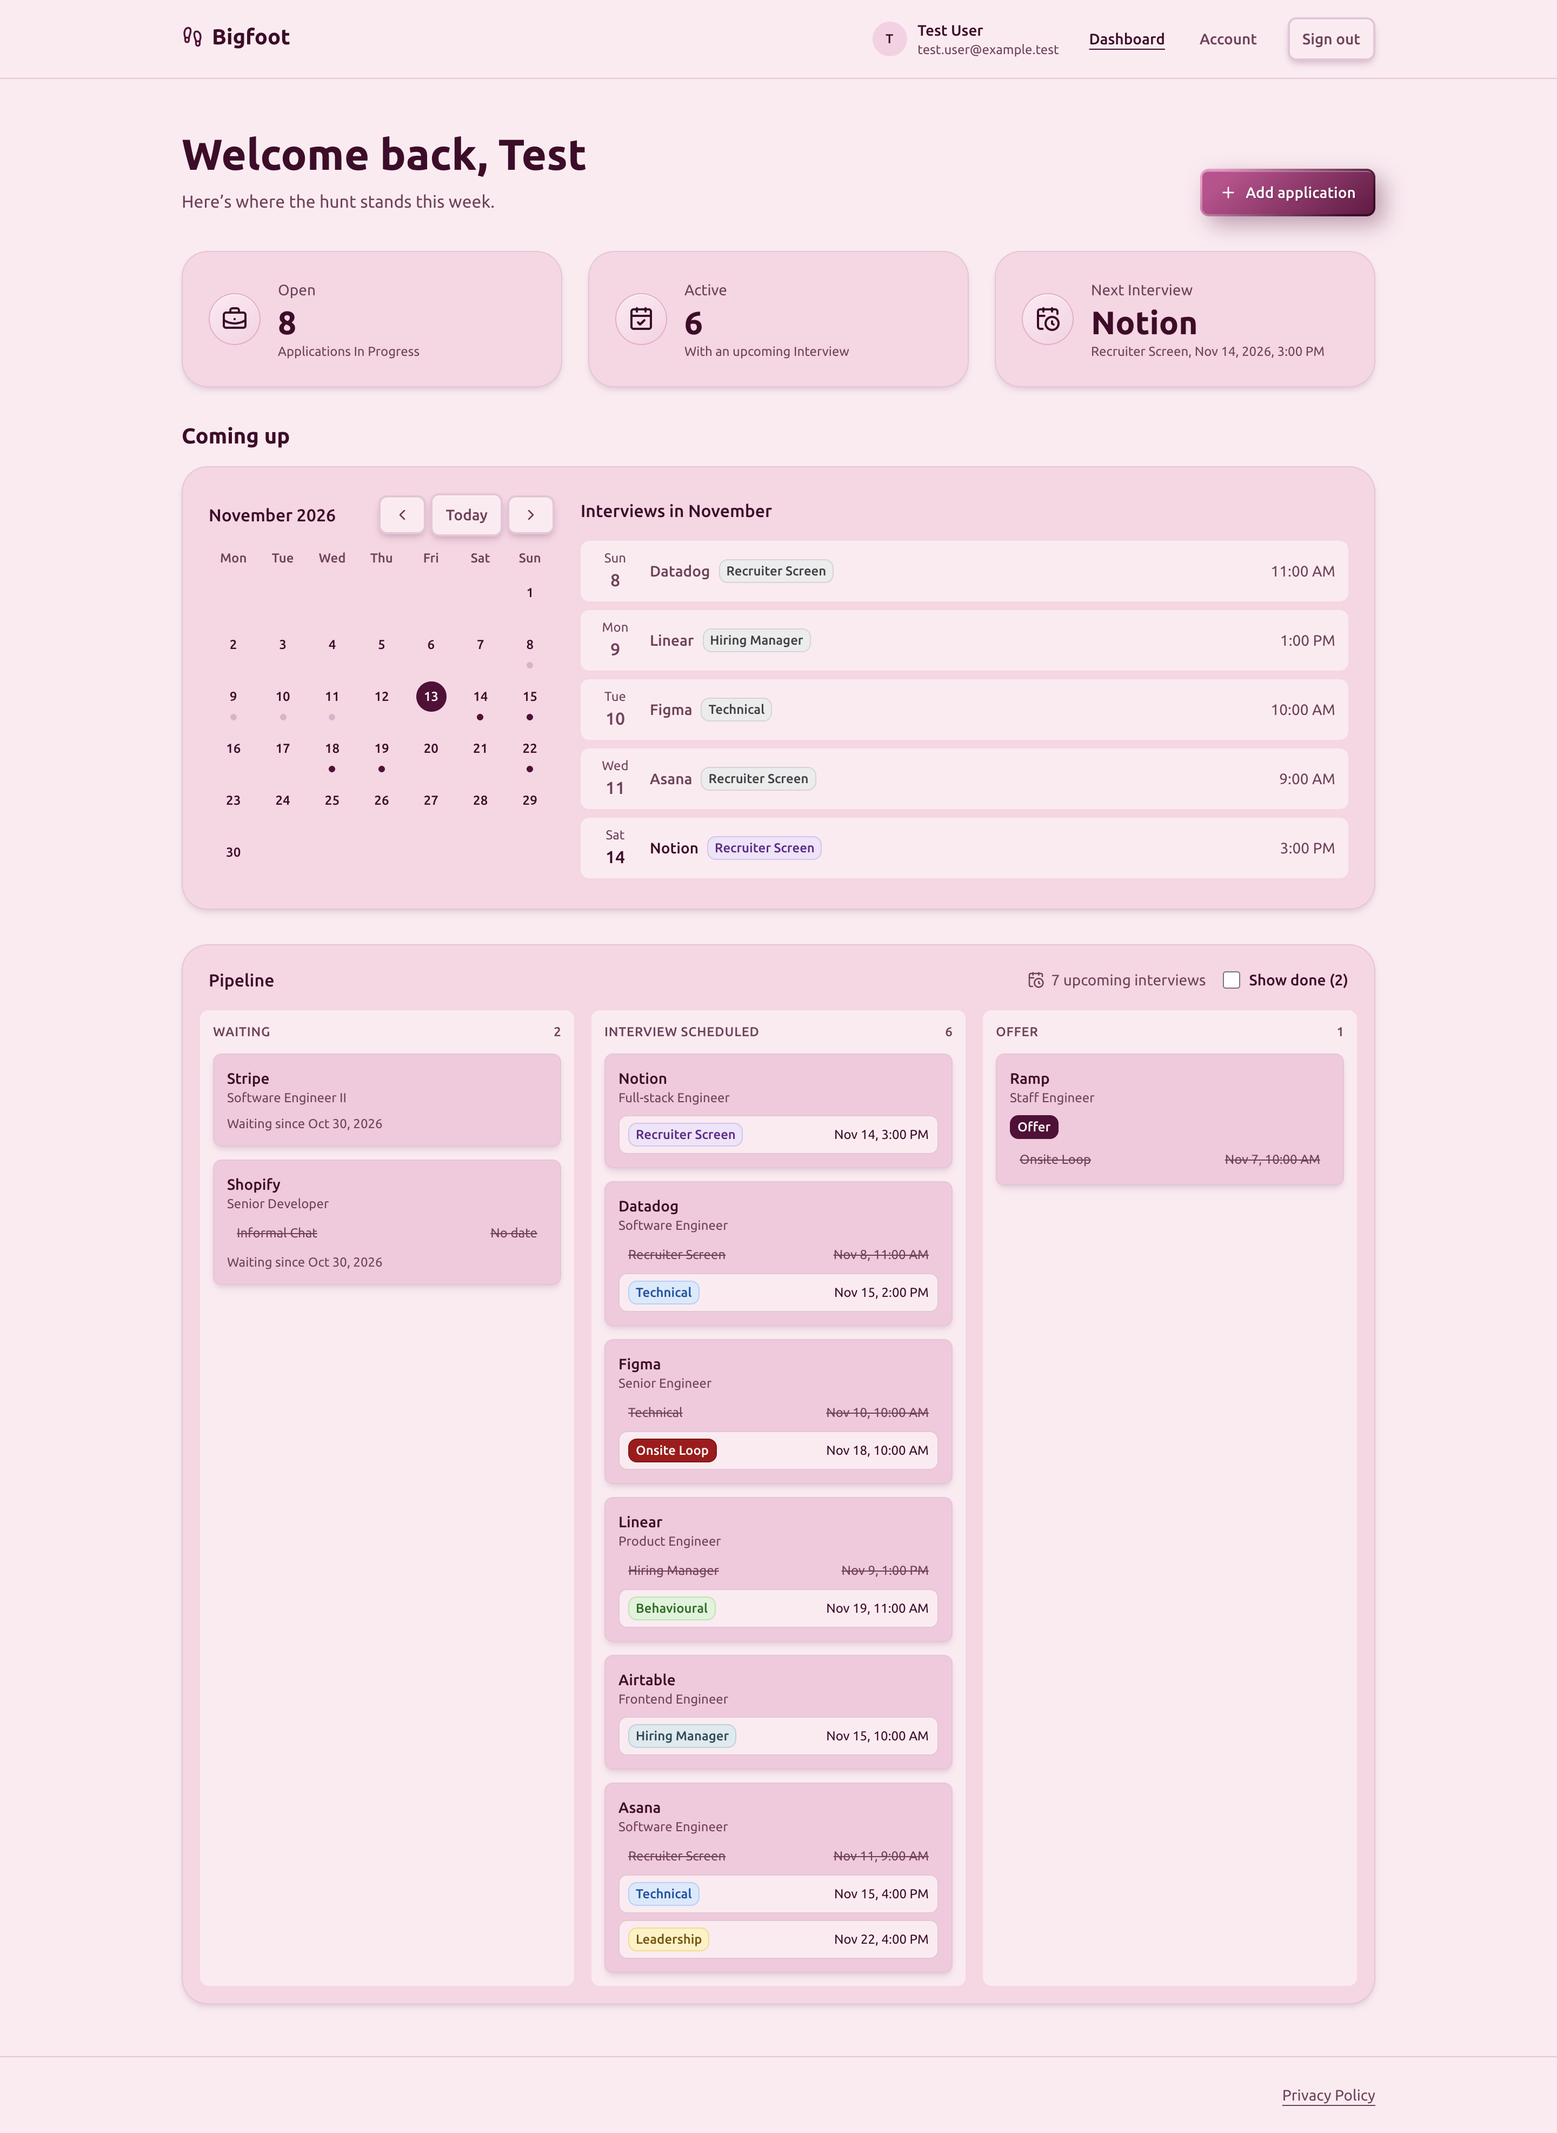
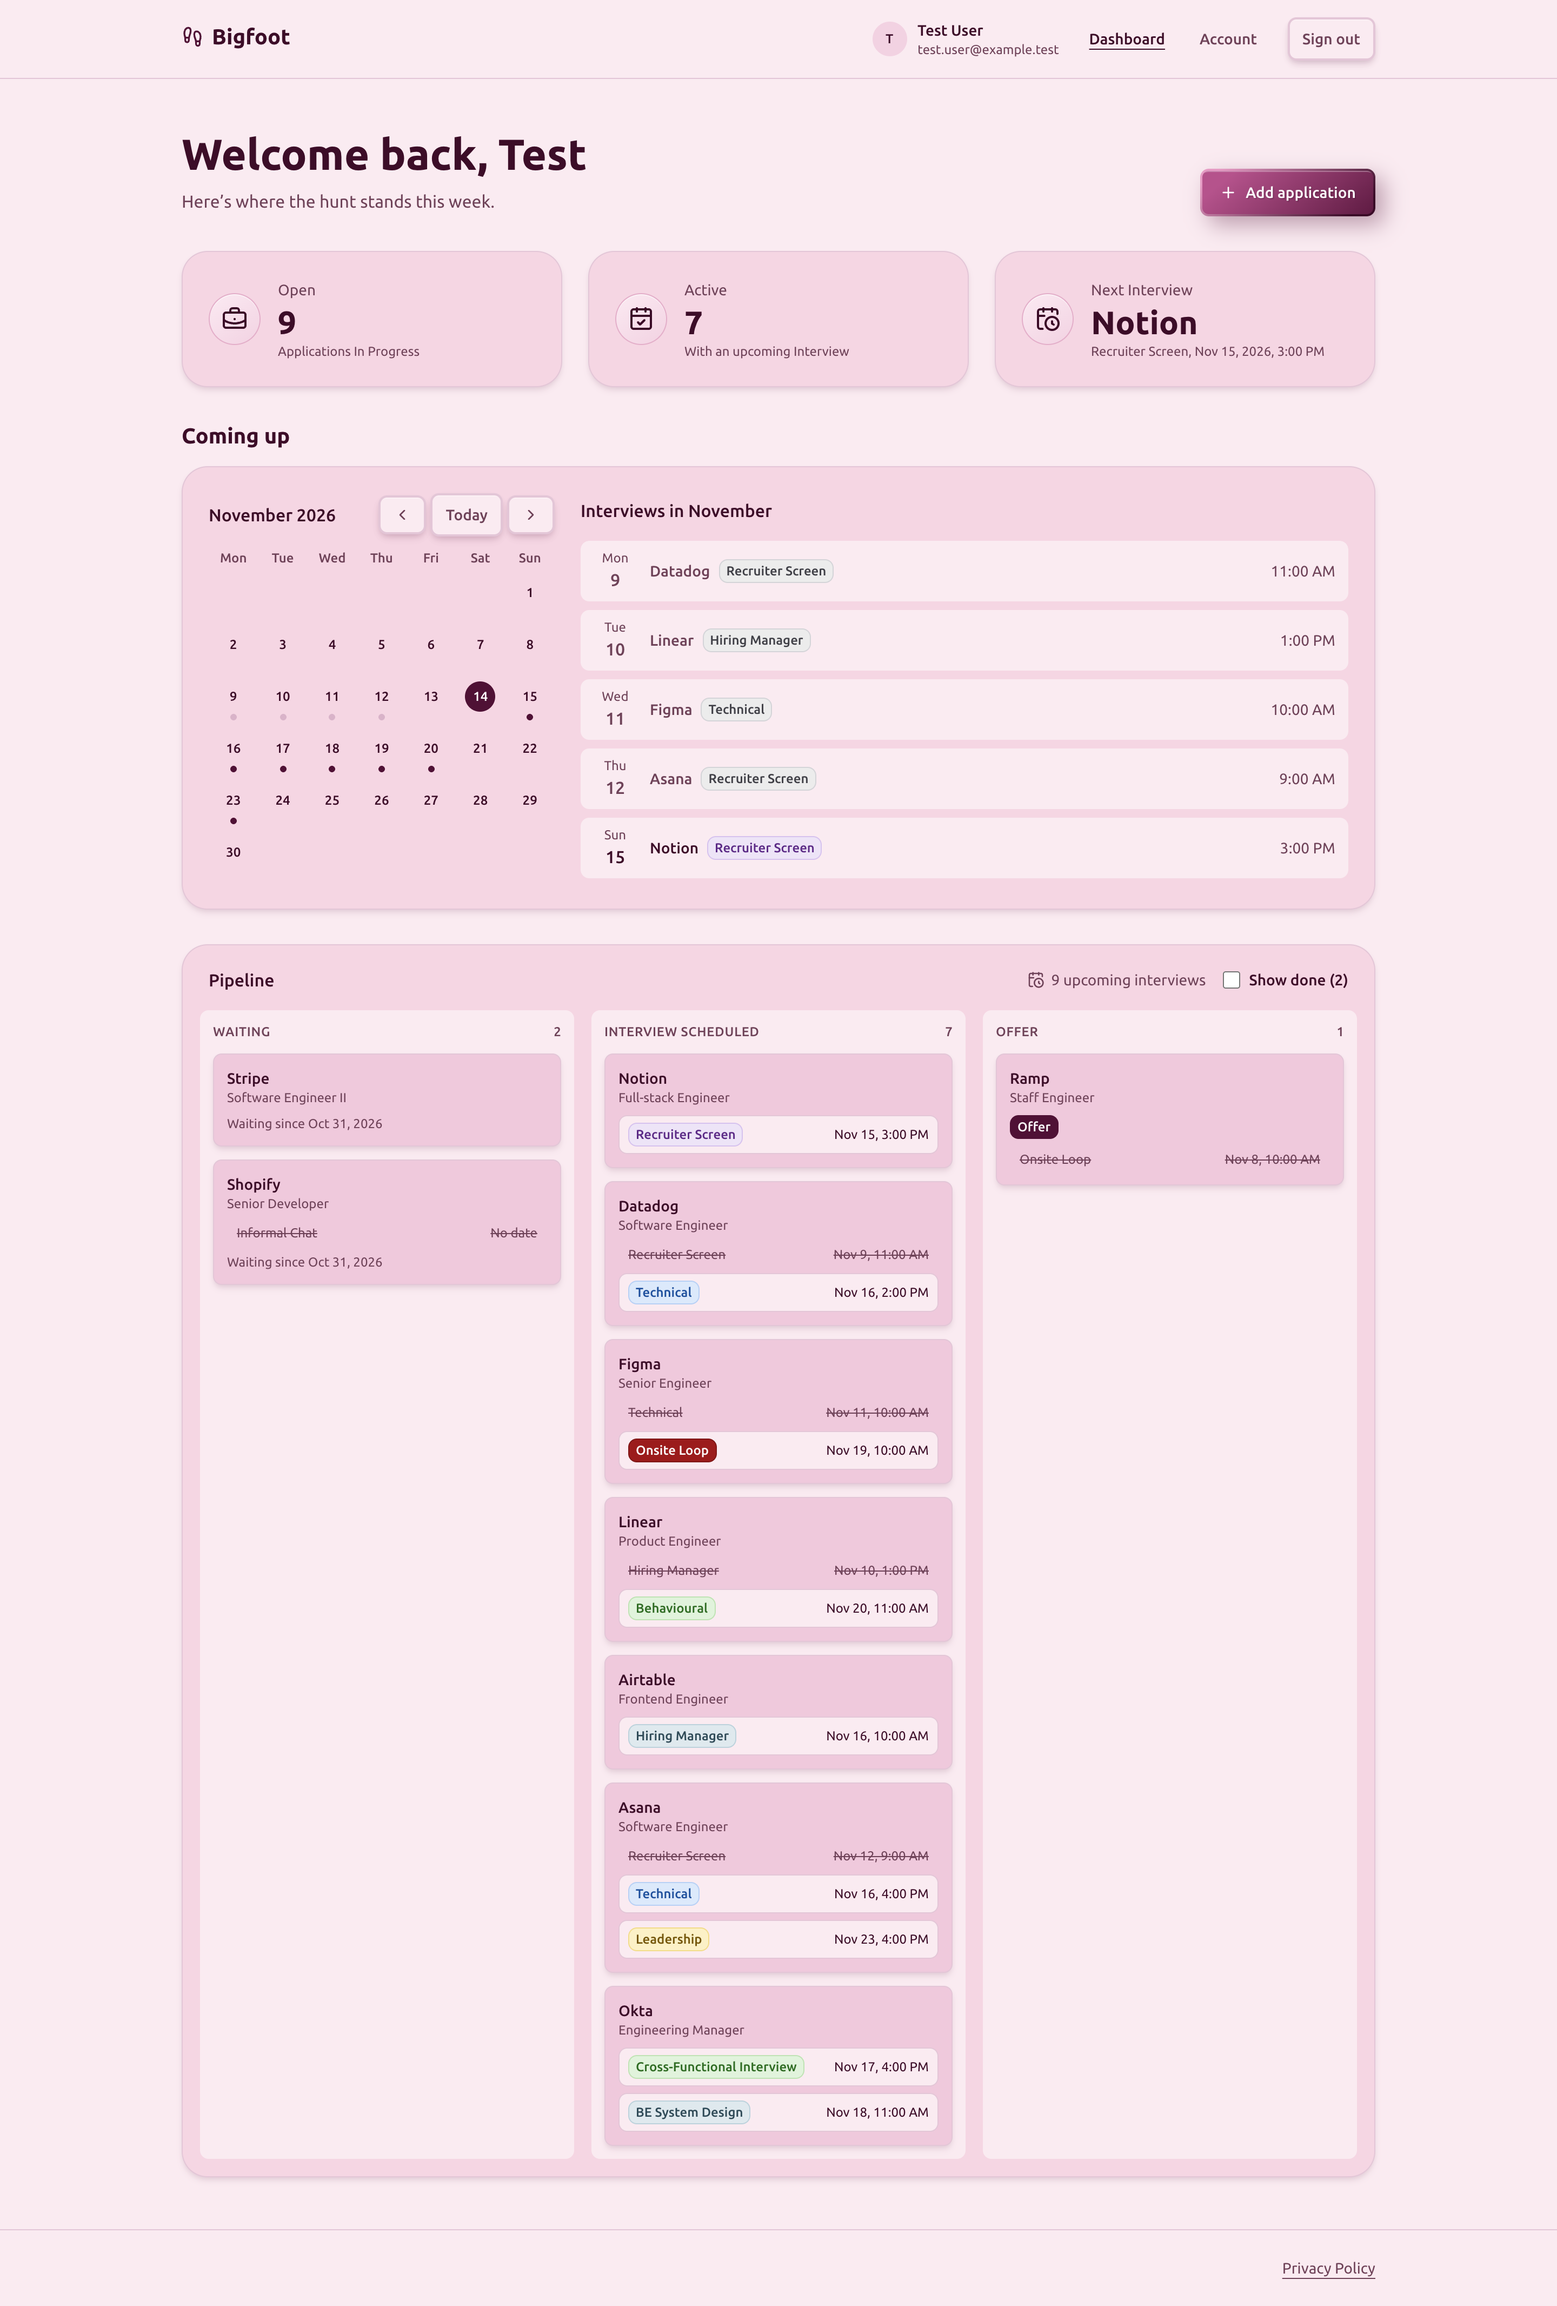
Turn the BIG-49 retro into checks (BIG-50)
- npm run capture: a page or element at any width, light and dark,
  optionally after a page state, signed in with fixture Applications.
- scripts/pages.mjs states (Show done, edit dialog, delete confirmation,
  add dialog), which a11y checks with axe in light and dark.
- Fixture data gains Okta with a Cross-Functional Interview, the
  longest kind, so captures and a11y always see a label wrap.
- Screenshots read their expected text from PAGES; shared openPage,
  enterState and withTestApplications helpers.
- check-tokens flags shadow utilities that aren't Bigfoot tokens.
- A pointer from PipelineBoard to the landing page that also uses it,
  a GLOSSARY review rule, and AGENTS.md pointers to capture and states.

diff --git a/src/components/pipeline-board.tsx b/src/components/pipeline-board.tsx
@@ -10,6 +10,9 @@ import {
   type Interview,
 } from "@/lib/applications";
 
+// Also draws the landing page's decorative board (src/components/landing/hero.tsx): after a
+// layout change, check docs/screenshots/landing.png too.
+
 type Props = {
   title: string;
   subtitle: string;

diff --git a/AGENTS.md b/AGENTS.md
@@ -14,8 +14,8 @@ This block is written and re-added by `next dev` — verify at `node_modules/nex
 - **Review**: `CODING_STANDARDS.md`.
 - **Domain language**: `GLOSSARY.md`. Use its terms in code, UI copy and tickets.
 - **Spelling**: Canadian English everywhere, tickets included; cspell in `npm run check` enforces it in the repo. Words and quoted US-spelled terms go in `cspell.json`.
-- **UI work**: read `.claude/skills/typeui-design-system/` (TypeUI Candy) before writing or restyling components. Token values live only in `src/app/globals.css`.
-- **Verify**: `npm run check` (types, lint, Python lint and format, design tokens, spelling, Vitest), then `npm run smoke` (every page in `scripts/pages.mjs`, signed in and out; fails on server errors logged to `.next/dev/logs/next-development.log`, which build and lint miss), then `npm run a11y` (axe-core WCAG 2.2 AA on the same pages, light and dark). Smoke and a11y reuse this checkout's running servers or start their own; CI starts them cold, so when smoke is slow or flaky, read the CI run (`gh run list`) too.
+- **UI work**: read `.claude/skills/typeui-design-system/` (TypeUI Candy) before writing or restyling components. Token values live only in `src/app/globals.css`. Before calling a layout done, look at it narrow and in dark mode: `npm run capture` (options in `scripts/capture.mjs`).
+- **Verify**: `npm run check` (types, lint, Python lint and format, design tokens, spelling, Vitest), then `npm run smoke` (every page in `scripts/pages.mjs`, signed in and out; fails on server errors logged to `.next/dev/logs/next-development.log`, which build and lint miss), then `npm run a11y` (axe-core WCAG 2.2 AA on the same pages and their `states`, such as open dialogs, light and dark). Smoke and a11y reuse this checkout's running servers or start their own; CI starts them cold, so when smoke is slow or flaky, read the CI run (`gh run list`) too.
 - **Stale dev CSS**: stop `next dev` before `npm run build` (they share `.next/`). If a Tailwind class has no effect in dev (also after edits made outside the editor, e.g. `sed`), restart with `rm -rf .next/dev && npm run dev` before debugging; `npm run build` output is the authoritative CSS.
 - **Signed-in pages without Google**: `node scripts/dev-session.mjs` prints an `authjs.session-token` cookie value for a test user; `node scripts/dev-applications.mjs add|remove` fills or empties their dashboard. `npm run screenshots` retakes the README screenshots.
 - **TypeUI MCP installs**: results are too large to read; apply the saved result with `python3 scripts/typeui-apply.py <result-file>`.

diff --git a/CODING_STANDARDS.md b/CODING_STANDARDS.md
@@ -18,6 +18,11 @@ A statement backed by none of these is a defect, however reasonable it sounds. S
 that makes an existing statement untrue, such as a new SDK, a plan change or a removed feature,
 without updating the copy and adding a `PRIVACY_CHANGES` entry.
 
+## GLOSSARY.md describes the product as it is
+
+A PR that changes what a screen shows or does updates every GLOSSARY.md term that describes that
+screen, in the same PR. A definition that names a removed view, column or control is a defect.
+
 ## Green CI before approval
 
 Approve only when the PR's latest `CI` and `PR naming` runs succeeded. A cancelled or skipped
